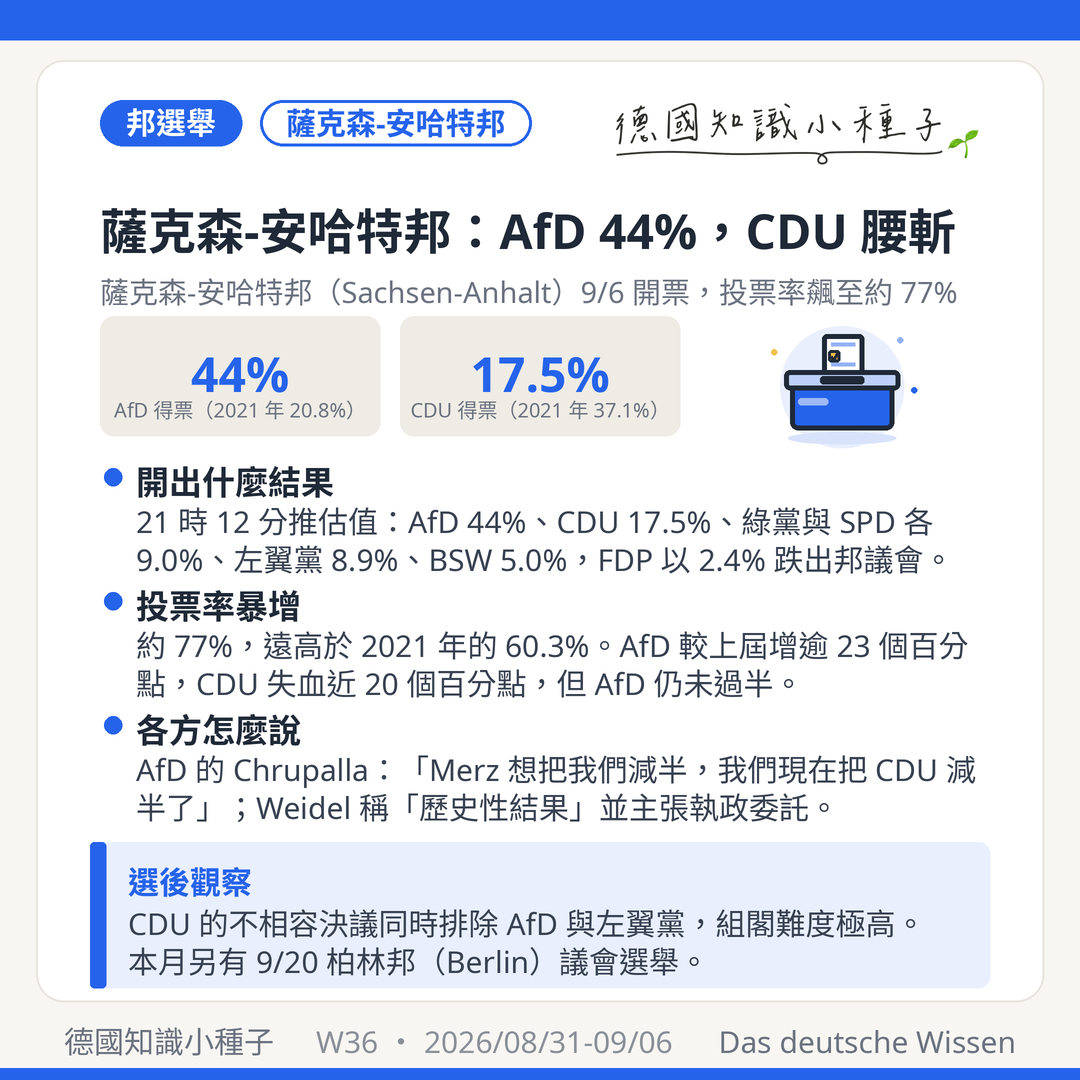
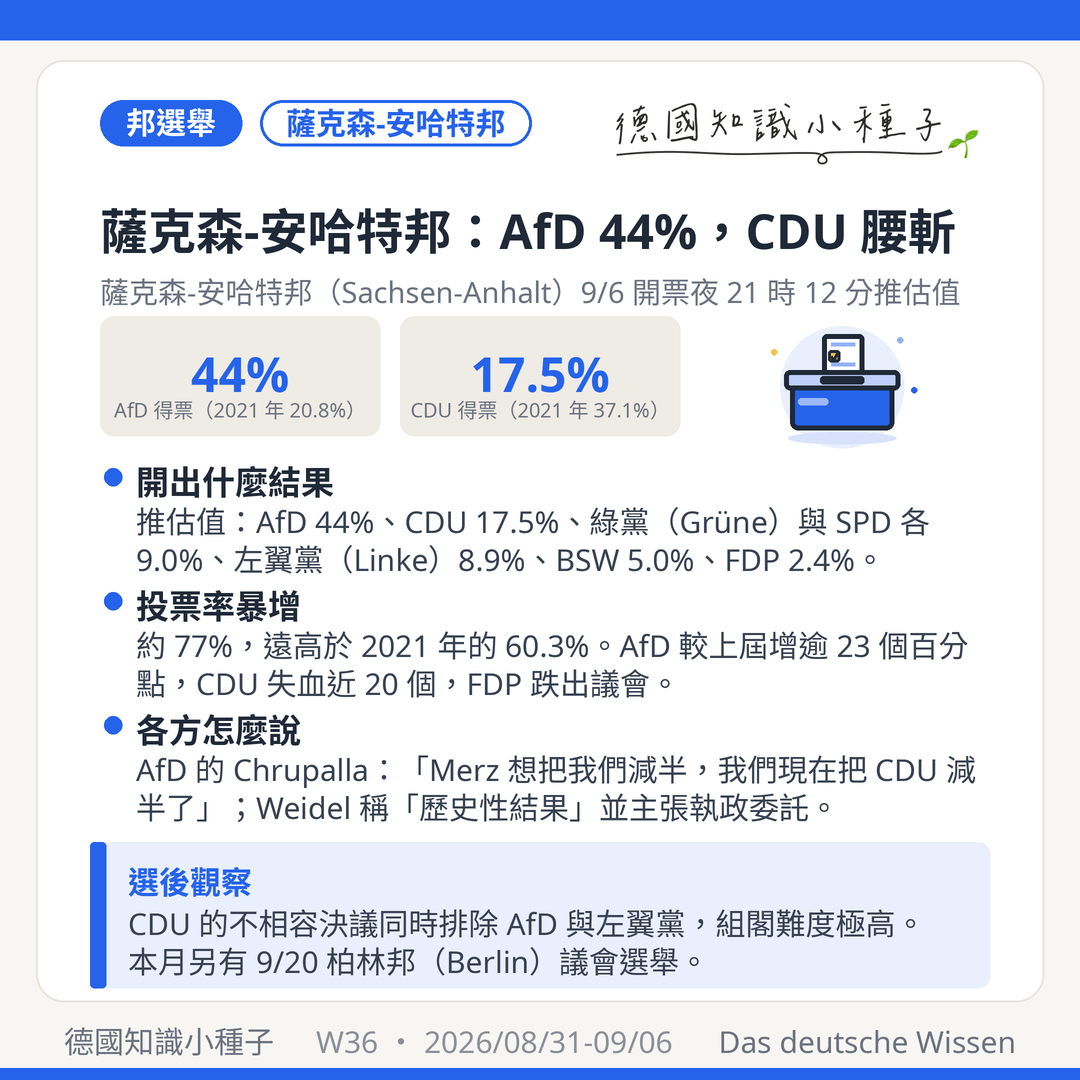
黨名一律帶德文，並把此慣例寫入 CLAUDE.md
用戶 2026/09 要求：政黨名稱保留德文，讀者才對得起德國媒體的報導。
多數德國政黨本來就以德文縮寫流通（AfD/CDU/SPD/FDP/BSW），
有中譯的綠黨與左翼黨過去只寫中文，這次補齊。

- 圖表座標軸：綠黨→Grüne、左翼黨→Linke。同軸已有 AfD、CDU、SPD 等
  德文縮寫，全德文可維持一致性；中德並列放不下（實測 30px 下
  「左翼黨 Linke」需 180px，標籤欄僅 144px）
- 圖卡1 bullet、js/data.js、excerpt、FB／IG 首次提及改為「中文（德文）」
- 圖表卡 alt 文字跟著帶德文，維持搜尋與無障礙的對應關係
- CLAUDE.md 新增「政黨名稱」小節，載明文字載體與圖表座標軸的不同處理

卡1 因加註德文超出版面，重組為：時間戳移到副標、第一則 bullet 精簡為
純數字列、FDP 跌出議會移到第二則；三則 bullet 均為 2 行，未溢出。

產圖器五項檢查 0 警告；七載體排序一致。

Claude-Session: https://claude.ai/code/session_0146auhYrkbMfHeQpEpSdo4p

Changed region(s): [[0.1222, 0.4583, 0.8556, 0.55], [0.6417, 0.2444, 0.8861, 0.3056], [0.3972, 0.6111, 0.7333, 0.6722]]

diff --git a/posts/weekly-digest.html b/posts/weekly-digest.html
@@ -6,13 +6,13 @@
 <meta name="viewport" content="width=device-width, initial-scale=1.0" />
 <meta name="referrer" content="strict-origin-when-cross-origin" />
 <title>德國知識小種子週報精選 | 德國知識小種子</title>
-<meta name="description" content="這一週以一場改寫東部政治版圖的邦選舉作結。9 月 6 日薩克森-安哈特邦（Sachsen-Anhalt）改選邦議會，開票夜 21 時 12 分推估值為 AfD 約 44%、執政的 CDU 崩跌至 17.5%，綠黨與 SPD 各 9.0%、左翼黨 8.9%、BSW 剛好 5.0%，FDP 以 2.4% 跌出邦議會；投票率" />
+<meta name="description" content="這一週以一場改寫東部政治版圖的邦選舉作結。9 月 6 日薩克森-安哈特邦（Sachsen-Anhalt）改選邦議會，開票夜 21 時 12 分推估值為 AfD 約 44%、執政的 CDU 崩跌至 17.5%，綠黨（Grüne）與 SPD 各 9.0%、左翼黨（Die Linke）8.9%、BSW 剛好 5.0%，FDP" />
 <meta name="robots" content="index, follow" />
 <link rel="canonical" href="https://taiwanese-in-germany.com/posts/weekly-digest.html" />
 <meta property="og:type" content="article" />
 <meta property="og:site_name" content="德國知識小種子 Das deutsche Wissen" />
 <meta property="og:title" content="德國知識小種子週報精選 | 德國知識小種子" />
-<meta property="og:description" content="這一週以一場改寫東部政治版圖的邦選舉作結。9 月 6 日薩克森-安哈特邦（Sachsen-Anhalt）改選邦議會，開票夜 21 時 12 分推估值為 AfD 約 44%、執政的 CDU 崩跌至 17.5%，綠黨與 SPD 各 9.0%、左翼黨 8.9%、BSW 剛好 5.0%，FDP 以 2.4% 跌出邦議會；投票率" />
+<meta property="og:description" content="這一週以一場改寫東部政治版圖的邦選舉作結。9 月 6 日薩克森-安哈特邦（Sachsen-Anhalt）改選邦議會，開票夜 21 時 12 分推估值為 AfD 約 44%、執政的 CDU 崩跌至 17.5%，綠黨（Grüne）與 SPD 各 9.0%、左翼黨（Die Linke）8.9%、BSW 剛好 5.0%，FDP" />
 <meta property="og:url" content="https://taiwanese-in-germany.com/posts/weekly-digest.html" />
 <meta property="og:image" content="https://taiwanese-in-germany.com/assets/images/2026/weekly/W36_圖卡1_薩克森安哈特邦選舉結果.png" />
 <meta property="og:locale" content="zh_TW" />
@@ -23,9 +23,9 @@
 <meta property="article:tag" content="時事" />
 <meta name="twitter:card" content="summary_large_image" />
 <meta name="twitter:title" content="德國知識小種子週報精選 | 德國知識小種子" />
-<meta name="twitter:description" content="這一週以一場改寫東部政治版圖的邦選舉作結。9 月 6 日薩克森-安哈特邦（Sachsen-Anhalt）改選邦議會，開票夜 21 時 12 分推估值為 AfD 約 44%、執政的 CDU 崩跌至 17.5%，綠黨與 SPD 各 9.0%、左翼黨 8.9%、BSW 剛好 5.0%，FDP 以 2.4% 跌出邦議會；投票率" />
+<meta name="twitter:description" content="這一週以一場改寫東部政治版圖的邦選舉作結。9 月 6 日薩克森-安哈特邦（Sachsen-Anhalt）改選邦議會，開票夜 21 時 12 分推估值為 AfD 約 44%、執政的 CDU 崩跌至 17.5%，綠黨（Grüne）與 SPD 各 9.0%、左翼黨（Die Linke）8.9%、BSW 剛好 5.0%，FDP" />
 <meta name="twitter:image" content="https://taiwanese-in-germany.com/assets/images/2026/weekly/W36_圖卡1_薩克森安哈特邦選舉結果.png" />
-<script type="application/ld+json">{"@context":"https://schema.org","@type":"BlogPosting","headline":"德國知識小種子週報精選","description":"這一週以一場改寫東部政治版圖的邦選舉作結。9 月 6 日薩克森-安哈特邦（Sachsen-Anhalt）改選邦議會，開票夜 21 時 12 分推估值為 AfD 約 44%、執政的 CDU 崩跌至 17.5%，綠黨與 SPD 各 9.0%、左翼黨 8.9%、BSW 剛好 5.0%，FDP 以 2.4% 跌出邦議會；投票率","image":"https://taiwanese-in-germany.com/assets/images/2026/weekly/W36_圖卡1_薩克森安哈特邦選舉結果.png","url":"https://taiwanese-in-germany.com/posts/weekly-digest.html","datePublished":"2026-09-06","dateModified":"2026-09-06","author":{"@type":"Person","name":"德國知識小種子","url":"https://taiwanese-in-germany.com"},"publisher":{"@type":"Organization","name":"德國知識小種子 Das deutsche Wissen","url":"https://taiwanese-in-germany.com","logo":{"@type":"ImageObject","url":"https://taiwanese-in-germany.com/assets/logo.png"}},"mainEntityOfPage":{"@type":"WebPage","@id":"https://taiwanese-in-germany.com/posts/weekly-digest.html"},"inLanguage":"zh-TW","keywords":"週報, 德國政策, 時事"}</script>
+<script type="application/ld+json">{"@context":"https://schema.org","@type":"BlogPosting","headline":"德國知識小種子週報精選","description":"這一週以一場改寫東部政治版圖的邦選舉作結。9 月 6 日薩克森-安哈特邦（Sachsen-Anhalt）改選邦議會，開票夜 21 時 12 分推估值為 AfD 約 44%、執政的 CDU 崩跌至 17.5%，綠黨（Grüne）與 SPD 各 9.0%、左翼黨（Die Linke）8.9%、BSW 剛好 5.0%，FDP","image":"https://taiwanese-in-germany.com/assets/images/2026/weekly/W36_圖卡1_薩克森安哈特邦選舉結果.png","url":"https://taiwanese-in-germany.com/posts/weekly-digest.html","datePublished":"2026-09-06","dateModified":"2026-09-06","author":{"@type":"Person","name":"德國知識小種子","url":"https://taiwanese-in-germany.com"},"publisher":{"@type":"Organization","name":"德國知識小種子 Das deutsche Wissen","url":"https://taiwanese-in-germany.com","logo":{"@type":"ImageObject","url":"https://taiwanese-in-germany.com/assets/logo.png"}},"mainEntityOfPage":{"@type":"WebPage","@id":"https://taiwanese-in-germany.com/posts/weekly-digest.html"},"inLanguage":"zh-TW","keywords":"週報, 德國政策, 時事"}</script>
 <script type="application/ld+json">{"@context":"https://schema.org","@type":"BreadcrumbList","itemListElement":[{"@type":"ListItem","position":1,"name":"首頁","item":"https://taiwanese-in-germany.com/"},{"@type":"ListItem","position":2,"name":"德國時事","item":"https://taiwanese-in-germany.com/category.html?cat=%E5%BE%B7%E5%9C%8B%E6%99%82%E4%BA%8B"},{"@type":"ListItem","position":3,"name":"德國知識小種子週報精選","item":"https://taiwanese-in-germany.com/posts/weekly-digest.html"}]}</script>
 <link rel="stylesheet" href="/css/style.css" />
 <link rel="alternate" type="application/rss+xml" title="德國知識小種子 RSS" href="/feed.xml" />
@@ -171,7 +171,7 @@
 <h3>薩克森-安哈特邦變天：AfD 得票 44%，CDU 腰斬至 17.5%</h3>
 <p><strong>9 月 6 日（週日），薩克森-安哈特邦（Sachsen-Anhalt）改選邦議會。</strong>結果與選前民調的方向一致，但幅度更大。<strong>依開票夜 21 時 12 分的推估值（Hochrechnung），AfD 得票約 44%，現任執政的 CDU 崩跌至 17.5%</strong>——兩黨位置完全對調，而且差距達到 26 個百分點以上。</p>
 <p><strong>把 2021 年的數字擺在旁邊，才看得出這一夜的量級。</strong>上屆選舉 <strong>CDU 拿下 37.1%</strong>、在 41 個選區中贏得 40 個直接席次，是該黨自 2002 年以來最佳成績；<strong>AfD 當時是 20.8%</strong>。這次 <strong>AfD 增加逾 23 個百分點，CDU 失血近 20 個百分點</strong>，等於在一屆之內把上屆的格局整個翻轉。其餘各黨的推估值為：<strong>綠黨（Bündnis 90/Die Grünen）與 SPD 各 9.0%、左翼黨（Die Linke）8.9%、BSW 剛好卡在 5.0% 的門檻上，FDP 則以 2.4% 跌出邦議會</strong>。</p>
-<img src="/assets/images/2026/weekly/W36_圖卡2_兩屆選舉得票對照.png" alt="薩克森-安哈特邦邦議會選舉第二票得票率兩屆對照長條圖 2021年與2026年 AfD 20.8%升至44.0% CDU 37.1%降至17.5% 綠黨5.9%升至9.0% SPD 8.4%升至9.0% 左翼黨11.0%降至8.9% BSW首次參選5.0% FDP 6.4%降至2.4%">
+<img src="/assets/images/2026/weekly/W36_圖卡2_兩屆選舉得票對照.png" alt="薩克森-安哈特邦邦議會選舉第二票得票率兩屆對照長條圖 2021年與2026年 AfD 20.8%升至44.0% CDU 37.1%降至17.5% Grüne綠黨5.9%升至9.0% SPD 8.4%升至9.0% Linke左翼黨11.0%降至8.9% BSW首次參選5.0% FDP 6.4%降至2.4%">
 <p class="post-sources">圖：本站製作。2026 年為 9 月 6 日開票夜 21 時 12 分推估值，非最終官方結果；2021 年為官方最終結果。資料來源：<a href="https://www.zdfheute.de/politik/deutschland/landtagswahl-sachsen-anhalt-prognose-hochrechnung-ergebnisse-liveticker-102.html" target="_blank" rel="noopener noreferrer">ZDFheute 開票夜推估值</a>、<a href="https://www.landtag.sachsen-anhalt.de/amtliches-endergebnis-wurde-bekanntgegeben" target="_blank" rel="noopener noreferrer">薩克森-安哈特邦議會 2021 年官方最終結果</a>。</p>
 
 <p><strong>另一個不該被數字淹沒的變化是投票率。</strong><strong>本屆約 77%，2021 年是 60.3%</strong>——多出約 17 個百分點。這不是一場低投票率下的意外，而是選民大量進場後的結果，這使得任何「動員不足」的解釋都難以成立。</p>

diff --git a/js/data.js b/js/data.js
@@ -523,7 +523,7 @@ const POSTS = [
     date: '2026-09-06',
     categories: ['德國時事'],
     tags: ['週報', '德國政策', '時事'],
-    excerpt: '這一週以一場改寫東部政治版圖的邦選舉作結。9 月 6 日薩克森-安哈特邦（Sachsen-Anhalt）改選邦議會，開票夜 21 時 12 分推估值為 AfD 約 44%、執政的 CDU 崩跌至 17.5%，綠黨與 SPD 各 9.0%、左翼黨 8.9%、BSW 剛好 5.0%，FDP 以 2.4% 跌出邦議會；投票率自 2021 年的 60.3% 飆升到約 77%。對照上屆 CDU 37.1%、AfD 20.8%，等於一屆之內格局完全翻轉。AfD 聯邦共同主席 Chrupalla 稱「Merz 想把我們減半，我們現在把 CDU 減半了」，Weidel 稱這是「歷史性結果」並主張執政委託；但 AfD 仍未過半，而 CDU 自 2018 年起的不相容決議同時排除 AfD 與左翼黨，組閣難度極高。政策面，9 月 2 日聯邦內閣通過《2027 所得稅改革法》草案，分 2027、2028 兩階段生效，2028 年起全年減稅約 100 億歐元：基本免稅額（Grundfreibetrag）升至 12,564 € 再到 12,900 €，兒童津貼（Kindergeld）每月調到 267 € 再到 272 €，兒童免稅額每名子女自 9,756 € 加到 10,056 €；財源來自高所得端，45% 稅率起徵點自 277,826 € 下修至 250,000 €，28 萬歐元以上另立 47% 新稅級。工業界批評這是「稅政上的失望」，聯邦經濟部更指草案是「隱性加稅」。居住面，德國租客協會 9 月 1 日發表《2026 租金報告》：50% 的租客擔心一旦搬家就找不到負擔得起的房，29% 擔心付不出房租，四分之一為了付房租而在食物上省錢，全德短缺約 140 萬戶住宅。物價面，聯邦統計局 8 月 29 日速報 8 月通膨 2.9%，能源獨漲 10.5%，食品僅 0.1%，核心通膨 2.4%。安全面向出現重大轉折：9 月 1 日起布蘭登堡邦（Brandenburg）、北萊茵-西發利亞邦（Nordrhein-Westfalen）與薩克森邦（Sachsen）的電網設施接連遇襲，行為人以自製火箭把導電材料射上高壓線，Bergheim 一案使 Niederaußem 與 Neurath 五個褐煤機組一度離線；兩封認犯信經查為真、內容稱化石燃料發電是犯罪，聯邦內政部長 Dobrindt 定性為單一行為人的「氣候恐怖主義」，Gevelsberg 一名 48 歲嫌犯迄今在逃並遭全歐通緝。此外，2025 年外國專業資格承認 86,600 件創新高、年增 10%，但成長已自前兩年的 21%、25% 明顯放緩，護理師 32,000 件居冠。',
+    excerpt: '這一週以一場改寫東部政治版圖的邦選舉作結。9 月 6 日薩克森-安哈特邦（Sachsen-Anhalt）改選邦議會，開票夜 21 時 12 分推估值為 AfD 約 44%、執政的 CDU 崩跌至 17.5%，綠黨（Grüne）與 SPD 各 9.0%、左翼黨（Die Linke）8.9%、BSW 剛好 5.0%，FDP 以 2.4% 跌出邦議會；投票率自 2021 年的 60.3% 飆升到約 77%。對照上屆 CDU 37.1%、AfD 20.8%，等於一屆之內格局完全翻轉。AfD 聯邦共同主席 Chrupalla 稱「Merz 想把我們減半，我們現在把 CDU 減半了」，Weidel 稱這是「歷史性結果」並主張執政委託；但 AfD 仍未過半，而 CDU 自 2018 年起的不相容決議同時排除 AfD 與左翼黨，組閣難度極高。政策面，9 月 2 日聯邦內閣通過《2027 所得稅改革法》草案，分 2027、2028 兩階段生效，2028 年起全年減稅約 100 億歐元：基本免稅額（Grundfreibetrag）升至 12,564 € 再到 12,900 €，兒童津貼（Kindergeld）每月調到 267 € 再到 272 €，兒童免稅額每名子女自 9,756 € 加到 10,056 €；財源來自高所得端，45% 稅率起徵點自 277,826 € 下修至 250,000 €，28 萬歐元以上另立 47% 新稅級。工業界批評這是「稅政上的失望」，聯邦經濟部更指草案是「隱性加稅」。居住面，德國租客協會 9 月 1 日發表《2026 租金報告》：50% 的租客擔心一旦搬家就找不到負擔得起的房，29% 擔心付不出房租，四分之一為了付房租而在食物上省錢，全德短缺約 140 萬戶住宅。物價面，聯邦統計局 8 月 29 日速報 8 月通膨 2.9%，能源獨漲 10.5%，食品僅 0.1%，核心通膨 2.4%。安全面向出現重大轉折：9 月 1 日起布蘭登堡邦（Brandenburg）、北萊茵-西發利亞邦（Nordrhein-Westfalen）與薩克森邦（Sachsen）的電網設施接連遇襲，行為人以自製火箭把導電材料射上高壓線，Bergheim 一案使 Niederaußem 與 Neurath 五個褐煤機組一度離線；兩封認犯信經查為真、內容稱化石燃料發電是犯罪，聯邦內政部長 Dobrindt 定性為單一行為人的「氣候恐怖主義」，Gevelsberg 一名 48 歲嫌犯迄今在逃並遭全歐通緝。此外，2025 年外國專業資格承認 86,600 件創新高、年增 10%，但成長已自前兩年的 21%、25% 明顯放緩，護理師 32,000 件居冠。',
 
     emoji: '🌱',
     content: `
@@ -562,7 +562,7 @@ const POSTS = [
 <h3>薩克森-安哈特邦變天：AfD 得票 44%，CDU 腰斬至 17.5%</h3>
 <p><strong>9 月 6 日（週日），薩克森-安哈特邦（Sachsen-Anhalt）改選邦議會。</strong>結果與選前民調的方向一致，但幅度更大。<strong>依開票夜 21 時 12 分的推估值（Hochrechnung），AfD 得票約 44%，現任執政的 CDU 崩跌至 17.5%</strong>——兩黨位置完全對調，而且差距達到 26 個百分點以上。</p>
 <p><strong>把 2021 年的數字擺在旁邊，才看得出這一夜的量級。</strong>上屆選舉 <strong>CDU 拿下 37.1%</strong>、在 41 個選區中贏得 40 個直接席次，是該黨自 2002 年以來最佳成績；<strong>AfD 當時是 20.8%</strong>。這次 <strong>AfD 增加逾 23 個百分點，CDU 失血近 20 個百分點</strong>，等於在一屆之內把上屆的格局整個翻轉。其餘各黨的推估值為：<strong>綠黨（Bündnis 90/Die Grünen）與 SPD 各 9.0%、左翼黨（Die Linke）8.9%、BSW 剛好卡在 5.0% 的門檻上，FDP 則以 2.4% 跌出邦議會</strong>。</p>
-<img src="assets/images/2026/weekly/W36_圖卡2_兩屆選舉得票對照.png" alt="薩克森-安哈特邦邦議會選舉第二票得票率兩屆對照長條圖 2021年與2026年 AfD 20.8%升至44.0% CDU 37.1%降至17.5% 綠黨5.9%升至9.0% SPD 8.4%升至9.0% 左翼黨11.0%降至8.9% BSW首次參選5.0% FDP 6.4%降至2.4%">
+<img src="assets/images/2026/weekly/W36_圖卡2_兩屆選舉得票對照.png" alt="薩克森-安哈特邦邦議會選舉第二票得票率兩屆對照長條圖 2021年與2026年 AfD 20.8%升至44.0% CDU 37.1%降至17.5% Grüne綠黨5.9%升至9.0% SPD 8.4%升至9.0% Linke左翼黨11.0%降至8.9% BSW首次參選5.0% FDP 6.4%降至2.4%">
 <p class="post-sources">圖：本站製作。2026 年為 9 月 6 日開票夜 21 時 12 分推估值，非最終官方結果；2021 年為官方最終結果。資料來源：<a href="https://www.zdfheute.de/politik/deutschland/landtagswahl-sachsen-anhalt-prognose-hochrechnung-ergebnisse-liveticker-102.html" target="_blank" rel="noopener noreferrer">ZDFheute 開票夜推估值</a>、<a href="https://www.landtag.sachsen-anhalt.de/amtliches-endergebnis-wurde-bekanntgegeben" target="_blank" rel="noopener noreferrer">薩克森-安哈特邦議會 2021 年官方最終結果</a>。</p>
 
 <p><strong>另一個不該被數字淹沒的變化是投票率。</strong><strong>本屆約 77%，2021 年是 60.3%</strong>——多出約 17 個百分點。這不是一場低投票率下的意外，而是選民大量進場後的結果，這使得任何「動員不足」的解釋都難以成立。</p>

diff --git a/scripts/cardgen/make_weekly_cards.py b/scripts/cardgen/make_weekly_cards.py
@@ -1465,12 +1465,12 @@ CARDS = [
  dict(
   theme='#2563EB', badges=[('邦選舉', True), ('薩克森-安哈特邦', False)], illu='ballotbox',
   title='薩克森-安哈特邦：AfD 44%，CDU 腰斬',
-  subtitle='薩克森-安哈特邦（Sachsen-Anhalt）9/6 開票，投票率飆至約 77%',
+  subtitle='薩克森-安哈特邦（Sachsen-Anhalt）9/6 開票夜 21 時 12 分推估值',
   stats=[('44%', 'AfD 得票（2021 年 20.8%）'),
          ('17.5%', 'CDU 得票（2021 年 37.1%）')],
   bullets=[
-   ('開出什麼結果', '21 時 12 分推估值：AfD 44%、CDU 17.5%、綠黨與 SPD 各 9.0%、左翼黨 8.9%、BSW 5.0%，FDP 以 2.4% 跌出邦議會。'),
-   ('投票率暴增', '約 77%，遠高於 2021 年的 60.3%。AfD 較上屆增逾 23 個百分點，CDU 失血近 20 個百分點，但 AfD 仍未過半。'),
+   ('開出什麼結果', '推估值：AfD 44%、CDU 17.5%、綠黨（Grüne）與 SPD 各 9.0%、左翼黨（Linke）8.9%、BSW 5.0%、FDP 2.4%。'),
+   ('投票率暴增', '約 77%，遠高於 2021 年的 60.3%。AfD 較上屆增逾 23 個百分點，CDU 失血近 20 個，FDP 跌出議會。'),
    ('各方怎麼說', 'AfD 的 Chrupalla：「Merz 想把我們減半，我們現在把 CDU 減半了」；Weidel 稱「歷史性結果」並主張執政委託。'),
   ],
   takeaway=('選後觀察', 'CDU 的不相容決議同時排除 AfD 與左翼黨，組閣難度極高。本月另有 9/20 柏林邦（Berlin）議會選舉。'),
@@ -1483,9 +1483,9 @@ CARDS = [
   rows=[
    ('AfD',   20.8, 44.0, '+23.2'),
    ('CDU',   37.1, 17.5, '-19.6'),
-   ('綠黨',   5.9,  9.0, '+3.1'),
+   ('Grüne',  5.9,  9.0, '+3.1'),
    ('SPD',    8.4,  9.0, '+0.6'),
-   ('左翼黨', 11.0,  8.9, '-2.1'),
+   ('Linke',  11.0,  8.9, '-2.1'),
    ('BSW',   None,  5.0, '首次參選'),
    ('FDP',    6.4,  2.4, '-4.0'),
   ],

diff --git a/CLAUDE.md b/CLAUDE.md
@@ -307,6 +307,23 @@
 **德國現任政治人物一律保留德文原名**（Merz、Dobrindt、Klingbeil、Weidel…），
 既精確又免去譯名爭議；首次出現可加職稱，如「內政部長 Dobrindt」。
 
+### 政黨名稱：一律帶德文，方便對照德媒（用戶 2026/09 要求）
+
+德國政黨多數本來就以德文縮寫流通（AfD、CDU、CSU、SPD、FDP、BSW），
+**有中譯的兩個也必須把德文帶上**，讀者才對得起德國媒體的報導：
+
+| ✅ 寫法 | ❌ 只寫中文 |
+|---|---|
+| 綠黨（Grüne；全稱 Bündnis 90/Die Grünen） | 綠黨 |
+| 左翼黨（Die Linke） | 左翼黨 |
+
+- **文字載體**（`js/data.js`、FB／IG 貼文、圖卡 bullets）：首次提及用「中文（德文）」，
+  同一段落內後續提及可只寫中文。
+- **圖表座標軸／表格欄位**：空間有限且同軸已有 AfD、CDU、SPD 等德文縮寫，
+  **一律只用德文**（`Grüne`、`Linke`），維持整條軸的一致性；
+  中德並列會撐爆標籤欄（實測 30px 字級下「左翼黨 Linke」需 180px，欄寬僅 144px）。
+- 圖卡的 `alt` 文字要跟著座標軸一起帶德文，否則搜尋與無障礙讀不到對應關係。
+
 ### 一般用語（台灣 vs 中國）
 
 ✅ 資訊（❌信息）、✅ 網路（❌網絡）、✅ 網際網路（❌互聯網）、✅ 軟體／硬體（❌軟件／硬件）、
